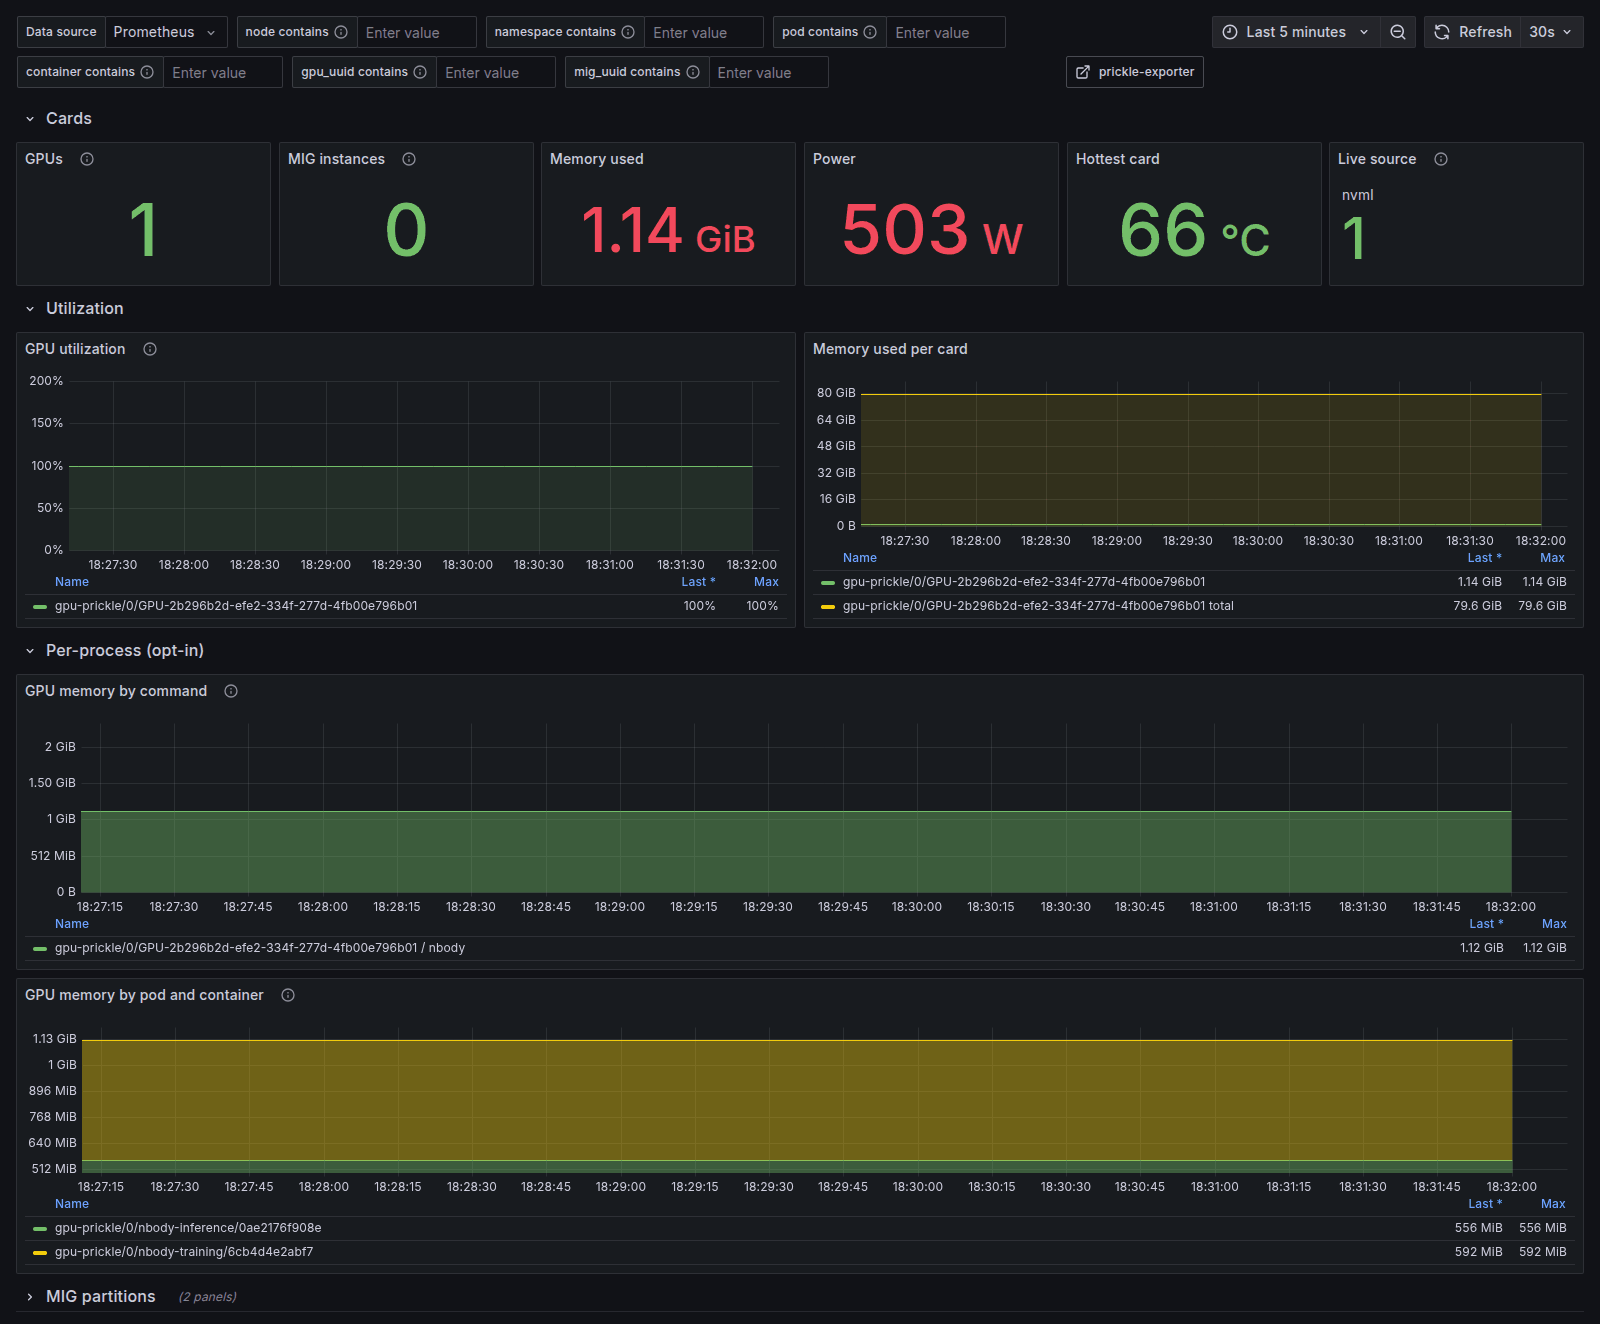
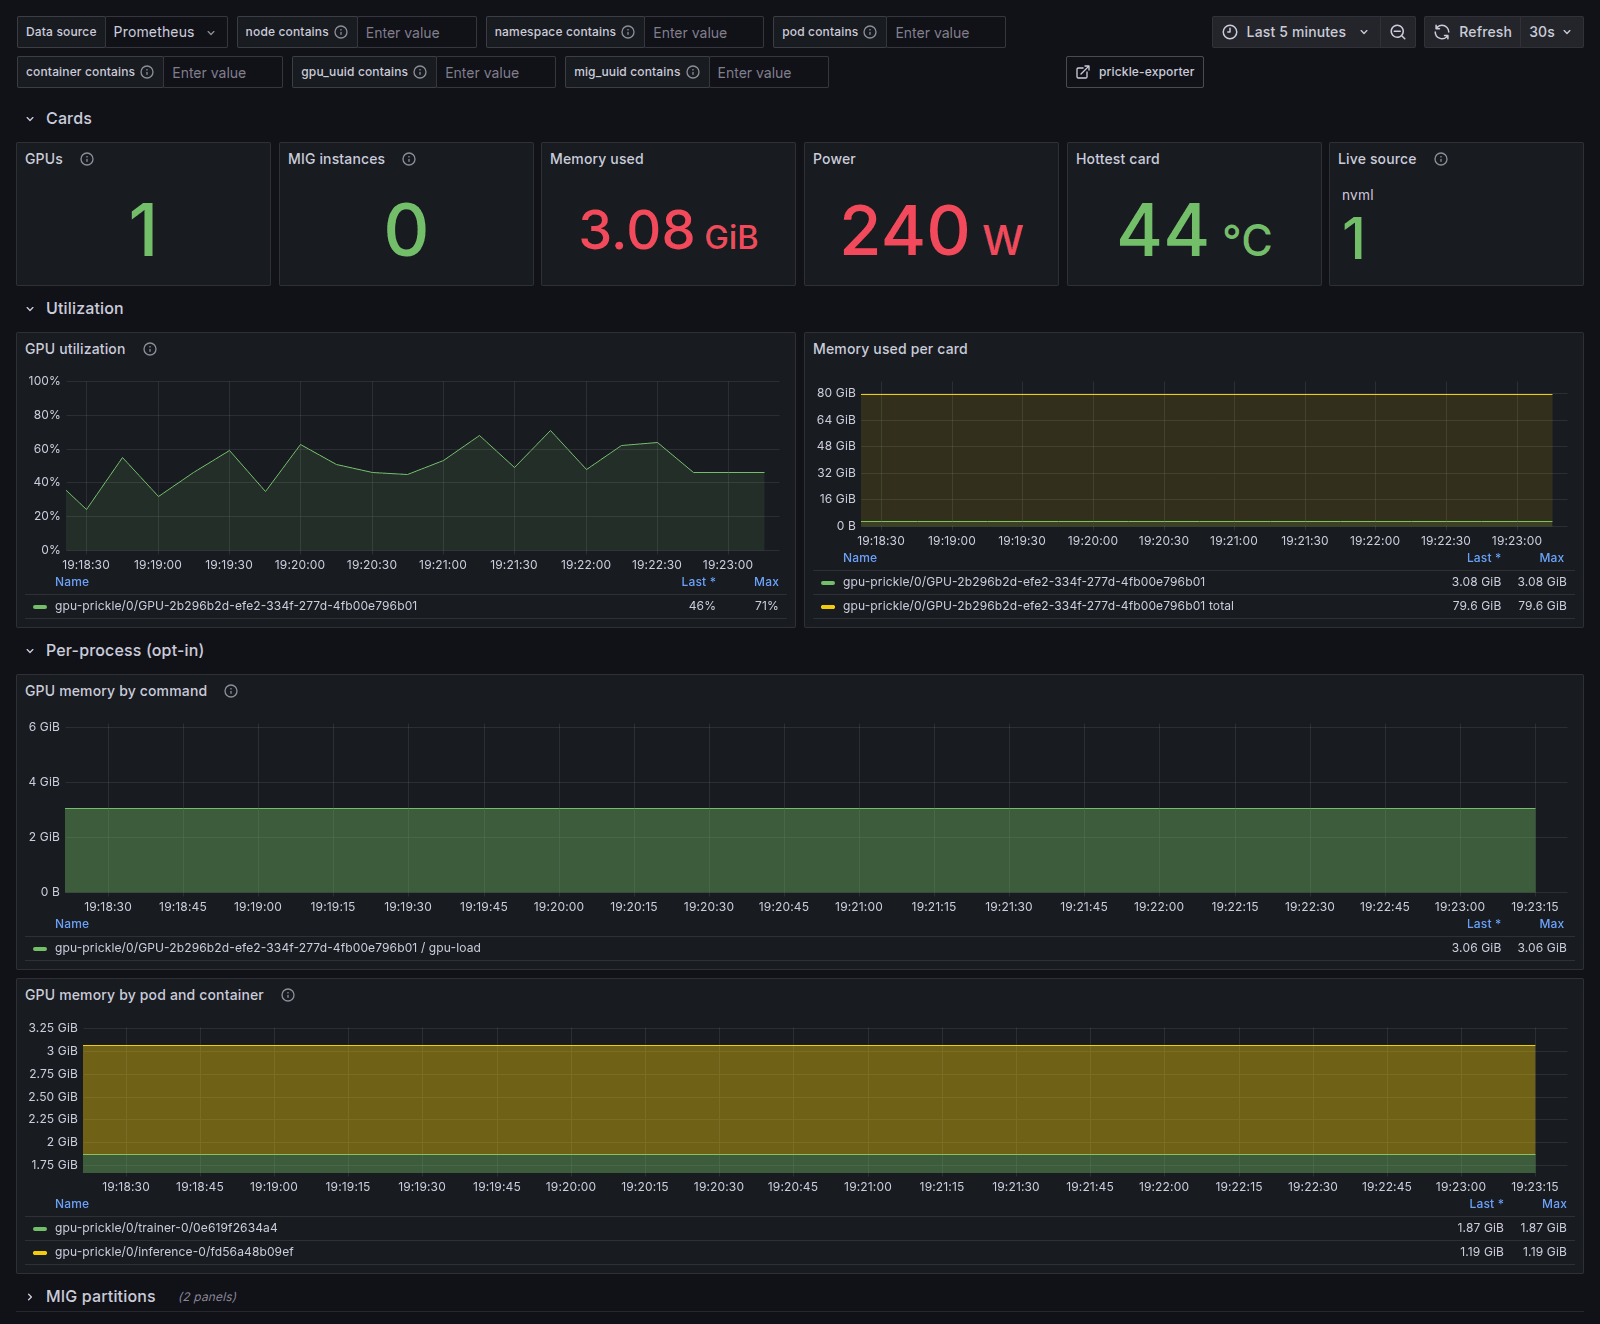
dashboards: bound the GPU utilization axis at 0-100%, and re-capture
Grafana autoscales a timeseries to its data, so a card pinned at 100% drew a
flat line at half panel height on an axis running to 200% and read as
half-utilised at a glance. The metric has a real ceiling, so give it one.

Opt-in rather than applied to every percent panel: a rate of CPU-seconds has
no such ceiling and passes 100% on any multi-core host, so the CPU and
container panels keep autoscaling.

Re-captured the hero image against the fixed axis, and with the target-duty
load generator from the previous commit rather than a pinned card - a real
tenant does not sit at 100% for five minutes, and the flat line was the least
believable thing in the frame. It now drifts between 22% and 71% at 240 W,
with the two tenants renamed so the pod names and the `gpu-load` command in
the legend describe the same thing.

diff --git a/scripts/make-dashboards.py b/scripts/make-dashboards.py
@@ -147,8 +147,16 @@ def pod_qualified(expr):
     return f'label_replace({joined}, "display", "$1", "display", "^/(.+)$")'
 
 
-def ts(title, exprs, gp, unit=None, desc=None, stack=False):
-    """A timeseries panel. exprs is a list of (promql, legend)."""
+def ts(title, exprs, gp, unit=None, desc=None, stack=False, axis=None):
+    """A timeseries panel. exprs is a list of (promql, legend).
+
+    axis is an optional (min, max) for the y-axis. Only worth setting where the
+    metric has a real ceiling: Grafana otherwise autoscales to the data, so a
+    pinned GPU draws a flat line at half panel height on a 0-200% axis and
+    reads as half-utilised at a glance. A rate of CPU-seconds has no such
+    ceiling — it passes 100% on any multi-core host — so this stays opt-in
+    rather than applying to every percent panel.
+    """
     p = {
         "type": "timeseries", "title": title, "gridPos": gp,
         "datasource": {"type": "prometheus", "uid": "${DS}"},
@@ -166,6 +174,8 @@ def ts(title, exprs, gp, unit=None, desc=None, stack=False):
     }
     if unit:
         p["fieldConfig"]["defaults"]["unit"] = unit
+    if axis:
+        p["fieldConfig"]["defaults"]["min"], p["fieldConfig"]["defaults"]["max"] = axis
     if desc:
         p["description"] = desc
     return p
@@ -339,7 +349,7 @@ def gpu_tenancy():
         row("Utilization", 5),
         ts("GPU utilization",
            [(gpu_qualified(f"prickle_gpu_utilization_ratio{g} * 100"), "{{gpu}}")],
-           {"h": 8, "w": 12, "x": 0, "y": 6}, unit="percent",
+           {"h": 8, "w": 12, "x": 0, "y": 6}, unit="percent", axis=(0, 100),
            desc="ABSENT, not zero, once MIG is enabled — the driver reports "
                 "[N/A] and reporting zero would fire idle-capacity alerts "
                 "across a MIG fleet. A gap here on a MIG card is correct."),

diff --git a/README.md b/README.md
@@ -52,7 +52,7 @@ node series without relabeling.
 
 <p align="center">
   <img src="assets/dashboards/gpu-tenancy-nvidia.png" width="900"
-       alt="The GPU Tenancy dashboard on a Kubernetes cluster. One H100 sits at 100% utilisation drawing 503 W at 66 °C, with nvml as the live source. The per-process panel below splits that card's memory between two pods in different namespaces — nbody-training and nbody-inference — each resolved to its pod name and container ID rather than a PID.">
+       alt="The GPU Tenancy dashboard on a Kubernetes cluster. One H100 drifts between 22% and 71% utilisation over five minutes, drawing 240 W at 44 °C, with nvml as the live source. The per-process panel below splits that one card's memory between two pods in different namespaces — trainer-0 and inference-0 — each resolved to its pod name and container ID rather than a PID.">
 </p>
 <p align="center">
   <sub><em>GPU Tenancy, on a Kubernetes cluster — one <code>gpu_uuid</code>, split
